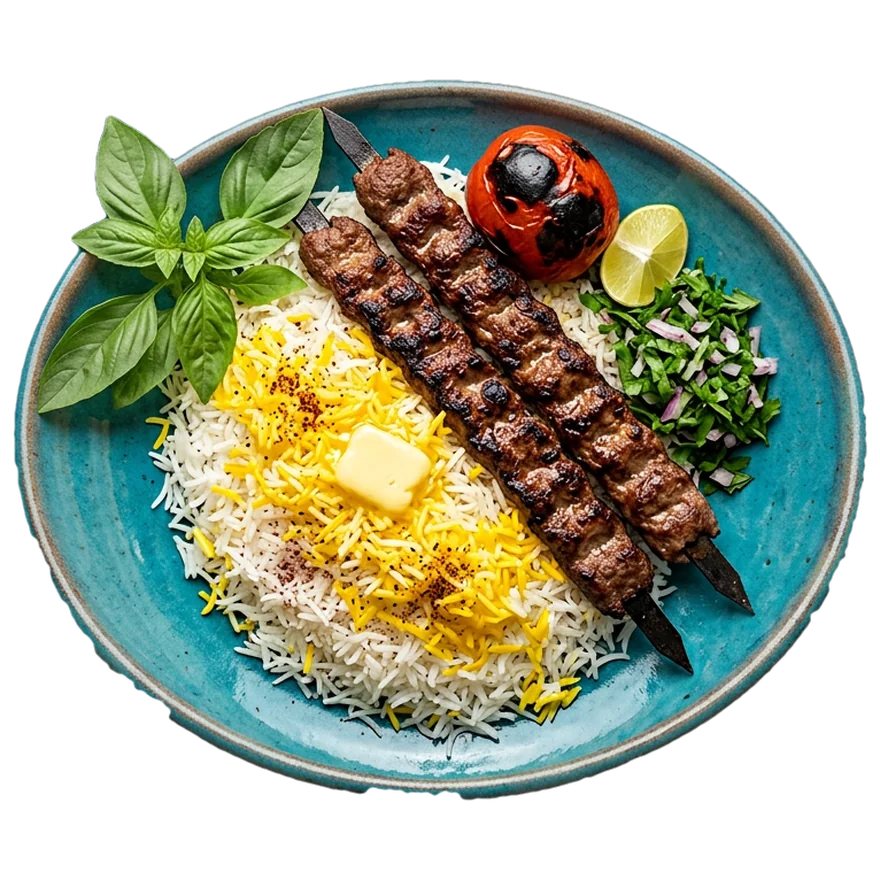
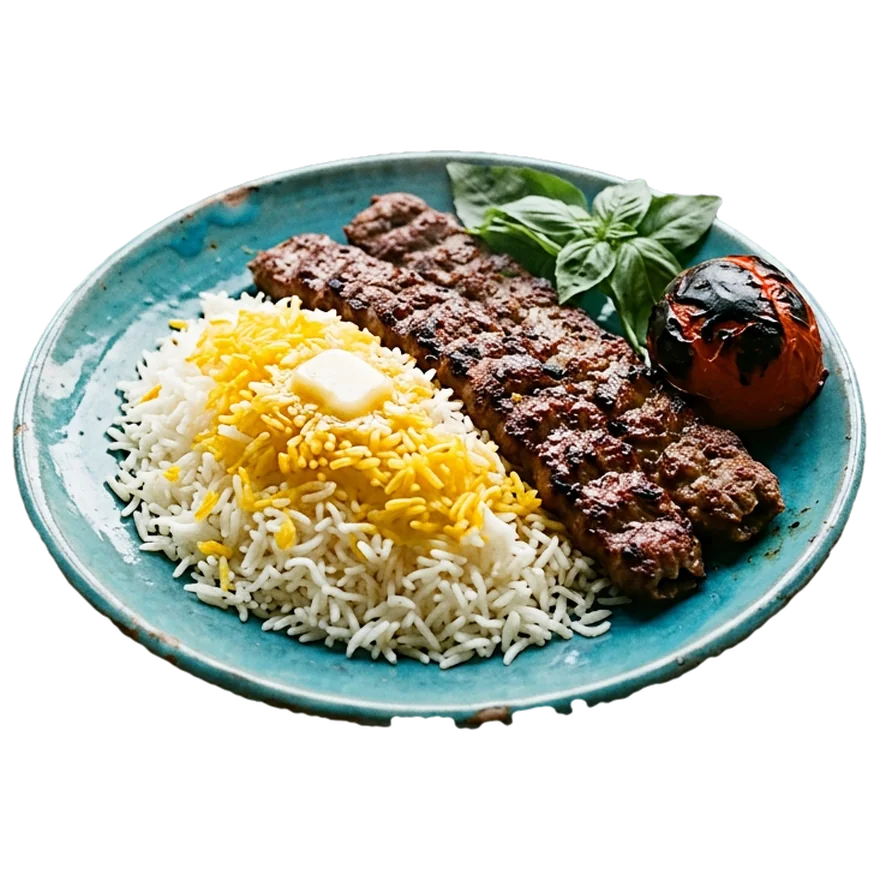
v34: عکسهای طبیعیِ کبابها — هر ۹ کباب با نور طبیعی پنجره، بافت واقعی و بخار ملایم، روی سفال فیروزهای دستساز؛ بدون میز و تخته، کامل در کادر

diff --git a/menu.html b/menu.html
@@ -72,8 +72,8 @@
 <article class="dish reveal" data-cat="kabab">
       <div class="dish-media">
         <div class="window"><div class="glass">
-          <img src="assets/img/dish-soltani-480.webp?v=29"
-             srcset="assets/img/dish-soltani-480.webp?v=29 480w, assets/img/dish-soltani-880.webp?v=29 880w"
+          <img src="assets/img/dish-soltani-480.webp?v=35"
+             srcset="assets/img/dish-soltani-480.webp?v=35 480w, assets/img/dish-soltani-880.webp?v=35 880w"
              sizes="(max-width: 700px) 86vw, 340px"
              alt="چلوکباب سلطانی: یک سیخ برگ و یک سیخ کوبیده بر چلوی زعفرانی با گوجهی کبابی" loading="lazy">
         </div>
@@ -92,8 +92,8 @@
 <article class="dish reveal" data-cat="kabab">
       <div class="dish-media">
         <div class="window"><div class="glass">
-          <img src="assets/img/dish-kubideh-480.webp?v=29"
-               srcset="assets/img/dish-kubideh-480.webp?v=29 480w, assets/img/dish-kubideh-880.webp?v=29 880w"
+          <img src="assets/img/dish-kubideh-480.webp?v=35"
+               srcset="assets/img/dish-kubideh-480.webp?v=35 480w, assets/img/dish-kubideh-880.webp?v=35 880w"
                sizes="(max-width: 700px) 86vw, 340px"
                alt="چلوکباب کوبیده: دو سیخ کوبیدهی گوشت بر چلوی زعفرانی با گوجهی کبابی" loading="lazy">
         </div>
@@ -111,8 +111,8 @@
 <article class="dish reveal" data-cat="kabab">
       <div class="dish-media">
         <div class="window"><div class="glass">
-          <img src="assets/img/dish-barg-480.webp?v=29"
-               srcset="assets/img/dish-barg-480.webp?v=29 480w, assets/img/dish-barg-880.webp?v=29 880w"
+          <img src="assets/img/dish-barg-480.webp?v=35"
+               srcset="assets/img/dish-barg-480.webp?v=35 480w, assets/img/dish-barg-880.webp?v=35 880w"
                sizes="(max-width: 700px) 86vw, 340px"
                alt="چلوکباب برگ: کباب برگِ راستهی گوساله بر چلوی زعفرانی" loading="lazy">
         </div>
@@ -130,8 +130,8 @@
 <article class="dish reveal" data-cat="kabab">
       <div class="dish-media">
         <div class="window"><div class="glass">
-          <img src="assets/img/dish-bakhtiari-480.webp?v=29"
-               srcset="assets/img/dish-bakhtiari-480.webp?v=29 480w, assets/img/dish-bakhtiari-880.webp?v=29 880w"
+          <img src="assets/img/dish-bakhtiari-480.webp?v=35"
+               srcset="assets/img/dish-bakhtiari-480.webp?v=35 480w, assets/img/dish-bakhtiari-880.webp?v=35 880w"
                sizes="(max-width: 700px) 86vw, 340px"
                alt="چلوکباب بختیاری: کباب برگ و جوجه در کنار هم بر چلوی زعفرانی" loading="lazy">
         </div>
@@ -149,8 +149,8 @@
 <article class="dish reveal" data-cat="kabab">
       <div class="dish-media">
         <div class="window"><div class="glass">
-          <img src="assets/img/dish-shishlik-480.webp?v=29"
-               srcset="assets/img/dish-shishlik-480.webp?v=29 480w, assets/img/dish-shishlik-880.webp?v=29 880w"
+          <img src="assets/img/dish-shishlik-480.webp?v=35"
+               srcset="assets/img/dish-shishlik-480.webp?v=35 480w, assets/img/dish-shishlik-880.webp?v=35 880w"
                sizes="(max-width: 700px) 86vw, 340px"
                alt="شیشلیک: سیخهای دندهی بره زغالی بر چلوی زعفرانی" loading="lazy">
         </div>
@@ -168,8 +168,8 @@
 <article class="dish reveal" data-cat="kabab">
       <div class="dish-media">
         <div class="window"><div class="glass">
-          <img src="assets/img/dish-bonab-480.webp?v=29"
-               srcset="assets/img/dish-bonab-480.webp?v=29 480w, assets/img/dish-bonab-880.webp?v=29 880w"
+          <img src="assets/img/dish-bonab-480.webp?v=35"
+               srcset="assets/img/dish-bonab-480.webp?v=35 480w, assets/img/dish-bonab-880.webp?v=35 880w"
                sizes="(max-width: 700px) 86vw, 340px"
                alt="کباب بناب: کباب بزرگ چرخکردهی گوسفندی بر چلو" loading="lazy">
         </div>
@@ -187,8 +187,8 @@
 <article class="dish reveal" data-cat="kabab">
       <div class="dish-media">
         <div class="window"><div class="glass">
-          <img src="assets/img/dish-torsh-480.webp?v=29"
-               srcset="assets/img/dish-torsh-480.webp?v=29 480w, assets/img/dish-torsh-880.webp?v=29 880w"
+          <img src="assets/img/dish-torsh-480.webp?v=35"
+               srcset="assets/img/dish-torsh-480.webp?v=35 480w, assets/img/dish-torsh-880.webp?v=35 880w"
                sizes="(max-width: 700px) 86vw, 340px"
                alt="کباب ترش گیلانی: کباب با سس رب انار و گردو و سبزی" loading="lazy">
         </div>
@@ -206,8 +206,8 @@
 <article class="dish reveal" data-cat="kabab">
       <div class="dish-media">
         <div class="window"><div class="glass">
-          <img src="assets/img/dish-chenjeh-480.webp?v=29"
-               srcset="assets/img/dish-chenjeh-480.webp?v=29 480w, assets/img/dish-chenjeh-880.webp?v=29 880w"
+          <img src="assets/img/dish-chenjeh-480.webp?v=35"
+               srcset="assets/img/dish-chenjeh-480.webp?v=35 480w, assets/img/dish-chenjeh-880.webp?v=35 880w"
                sizes="(max-width: 700px) 86vw, 340px"
                alt="چنجه: تکههای فیلهی گوسالهی سیخشده بر چلو" loading="lazy">
         </div>
@@ -225,8 +225,8 @@
 <article class="dish reveal" data-cat="kabab">
       <div class="dish-media">
         <div class="window"><div class="glass">
-          <img src="assets/img/dish-joojeh-480.webp?v=29"
-               srcset="assets/img/dish-joojeh-480.webp?v=29 480w, assets/img/dish-joojeh-880.webp?v=29 880w"
+          <img src="assets/img/dish-joojeh-480.webp?v=35"
+               srcset="assets/img/dish-joojeh-480.webp?v=35 480w, assets/img/dish-joojeh-880.webp?v=35 880w"
                sizes="(max-width: 700px) 86vw, 340px"
                alt="جوجهکباب زعفرانی: سیخ مرغ زعفرانی با گوجهی کبابی" loading="lazy">
         </div>

diff --git a/index.html b/index.html
@@ -123,8 +123,8 @@
 
     <div class="wrap menu-cats" id="menuCats" aria-label="دستههای منو">
     <a class="cat-tile reveal" href="menu.html#kabab">
-      <img src="assets/img/dish-soltani-480.webp?v=29"
-           srcset="assets/img/dish-soltani-480.webp?v=29 480w, assets/img/dish-soltani-880.webp?v=29 880w"
+      <img src="assets/img/dish-soltani-480.webp?v=35"
+           srcset="assets/img/dish-soltani-480.webp?v=35 480w, assets/img/dish-soltani-880.webp?v=35 880w"
            sizes="(max-width: 560px) 92vw, (max-width: 1020px) 46vw, 300px"
            alt="کبابها: کبابهای زغالی خانه بر چلوی زعفرانی" loading="lazy">
       <span class="cat-txt"><b>کبابها</b><i>۹ غذا · بر آتشِ زغال</i><em>دیدن همهی غذاها</em></span>
